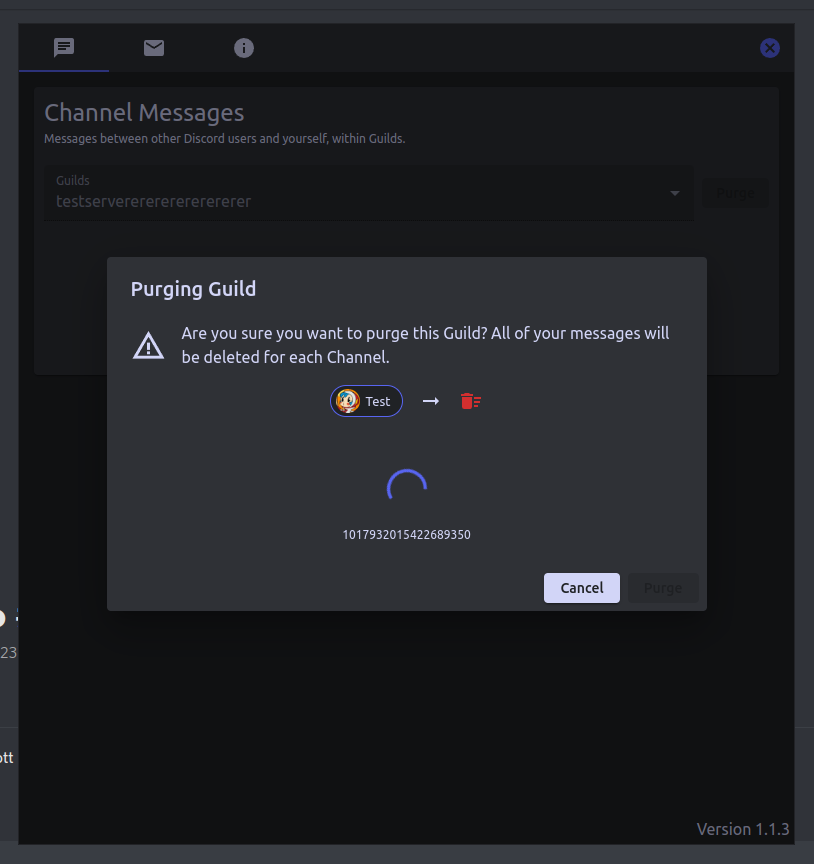
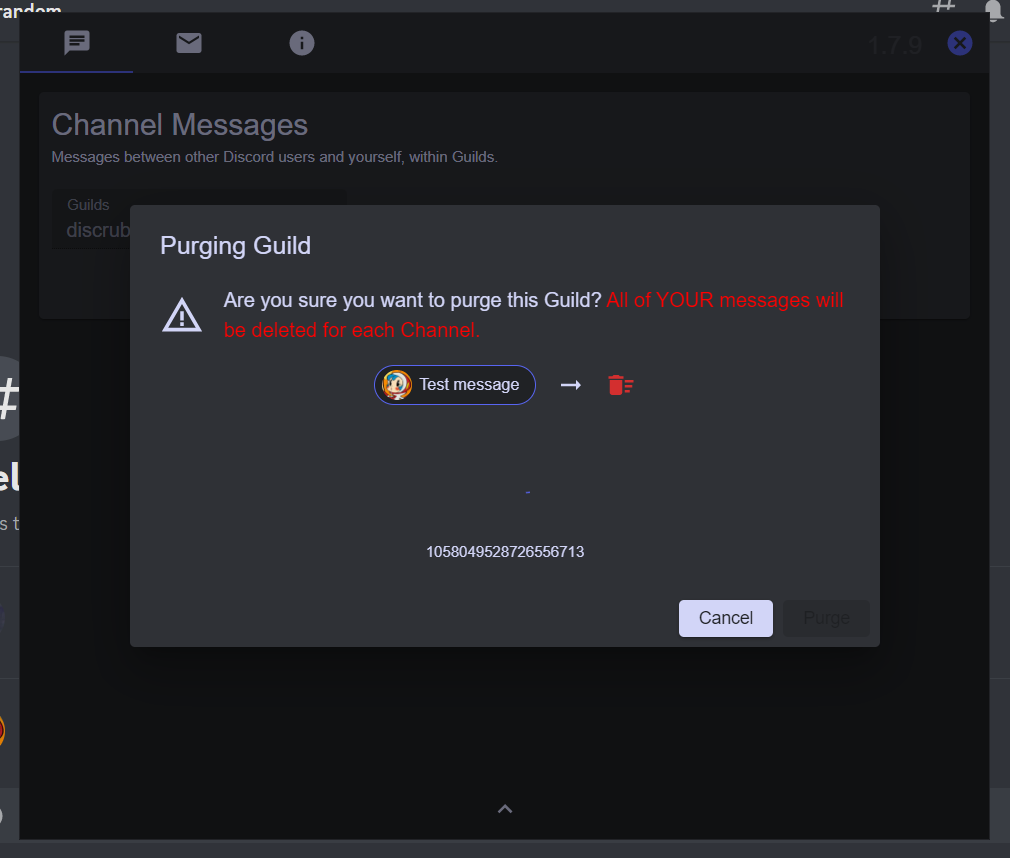
Make Purge warning more apparant, disable Purge button in unnecessary scenarios

diff --git a/src/components/ChannelMessages/PurgeGuild.jsx b/src/components/ChannelMessages/PurgeGuild.jsx
@@ -57,8 +57,8 @@ const PurgeGuild = ({ dialogOpen, setDialogOpen, isDm = false }) => {
 
   const { messages, isLoading: messagesLoading } = messageDataState;
   const { selectedGuild } = guildState;
-  const { channels } = channelState;
-  const { selectedDm } = dmState;
+  const { channels, selectedChannel, preFilterUserId } = channelState;
+  const { selectedDm, preFilterUserId: dmPreFilterUserId } = dmState;
 
   const messagesRef = useRef();
   messagesRef.current = messages;
@@ -136,6 +136,10 @@ const PurgeGuild = ({ dialogOpen, setDialogOpen, isDm = false }) => {
         disabled={
           (selectedGuild.id === null && selectedDm.id === null) ||
           messagesLoading ||
+          selectedChannel.id !== null ||
+          messages.length > 0 ||
+          !!dmPreFilterUserId ||
+          !!preFilterUserId ||
           dialogOpen
         }
         onClick={() =>
@@ -147,11 +151,16 @@ const PurgeGuild = ({ dialogOpen, setDialogOpen, isDm = false }) => {
       </Button>
       <Dialog open={dialogOpen} onClose={handleClose}>
         <DialogTitle>
-          {deleting && deleteObj
-            ? `Purging ${deleteType}`
-            : finishedPurge
-            ? `${deleteType} Purged`
-            : `Purge ${deleteType}?`}
+          {deleting && deleteObj ? (
+            `Purging ${deleteType}`
+          ) : finishedPurge ? (
+            `${deleteType} Purged`
+          ) : (
+            <>
+              <span style={{ color: "red" }}>WARNING: </span> This is
+              non-reversible!
+            </>
+          )}
         </DialogTitle>
         <DialogContent>
           <Stack
@@ -169,11 +178,17 @@ const PurgeGuild = ({ dialogOpen, setDialogOpen, isDm = false }) => {
               {!finishedPurge && <WarningAmberIcon fontSize="large" />}
               {finishedPurge && <ThumbUpIcon fontSize="large" />}
               <DialogContentText>
-                {finishedPurge
-                  ? `${deleteType} was successfully purged!`
-                  : `Are you sure you want to purge this ${deleteType}? All of your messages will be deleted${
-                      isDm ? "." : " for each Channel."
-                    }`}
+                {finishedPurge ? (
+                  `${deleteType} was successfully purged!`
+                ) : (
+                  <span>
+                    Are you sure you want to purge this {deleteType}?{" "}
+                    <span style={{ color: "red" }}>
+                      All of YOUR messages will be deleted
+                      {isDm ? "." : " for each Channel."}
+                    </span>
+                  </span>
+                )}
               </DialogContentText>
             </Stack>
             {deleting && deleteObj && (

diff --git a/src/components/InjectedDialog/InjectedDialog.jsx b/src/components/InjectedDialog/InjectedDialog.jsx
@@ -95,7 +95,7 @@ function InjectedDialog() {
       )}
 
       <Box className={classes.box}>
-        <Typography variant="h6">1.7.8</Typography>
+        <Typography variant="h6">1.7.9</Typography>
       </Box>
       <CloseWindowButton />
     </Box>
